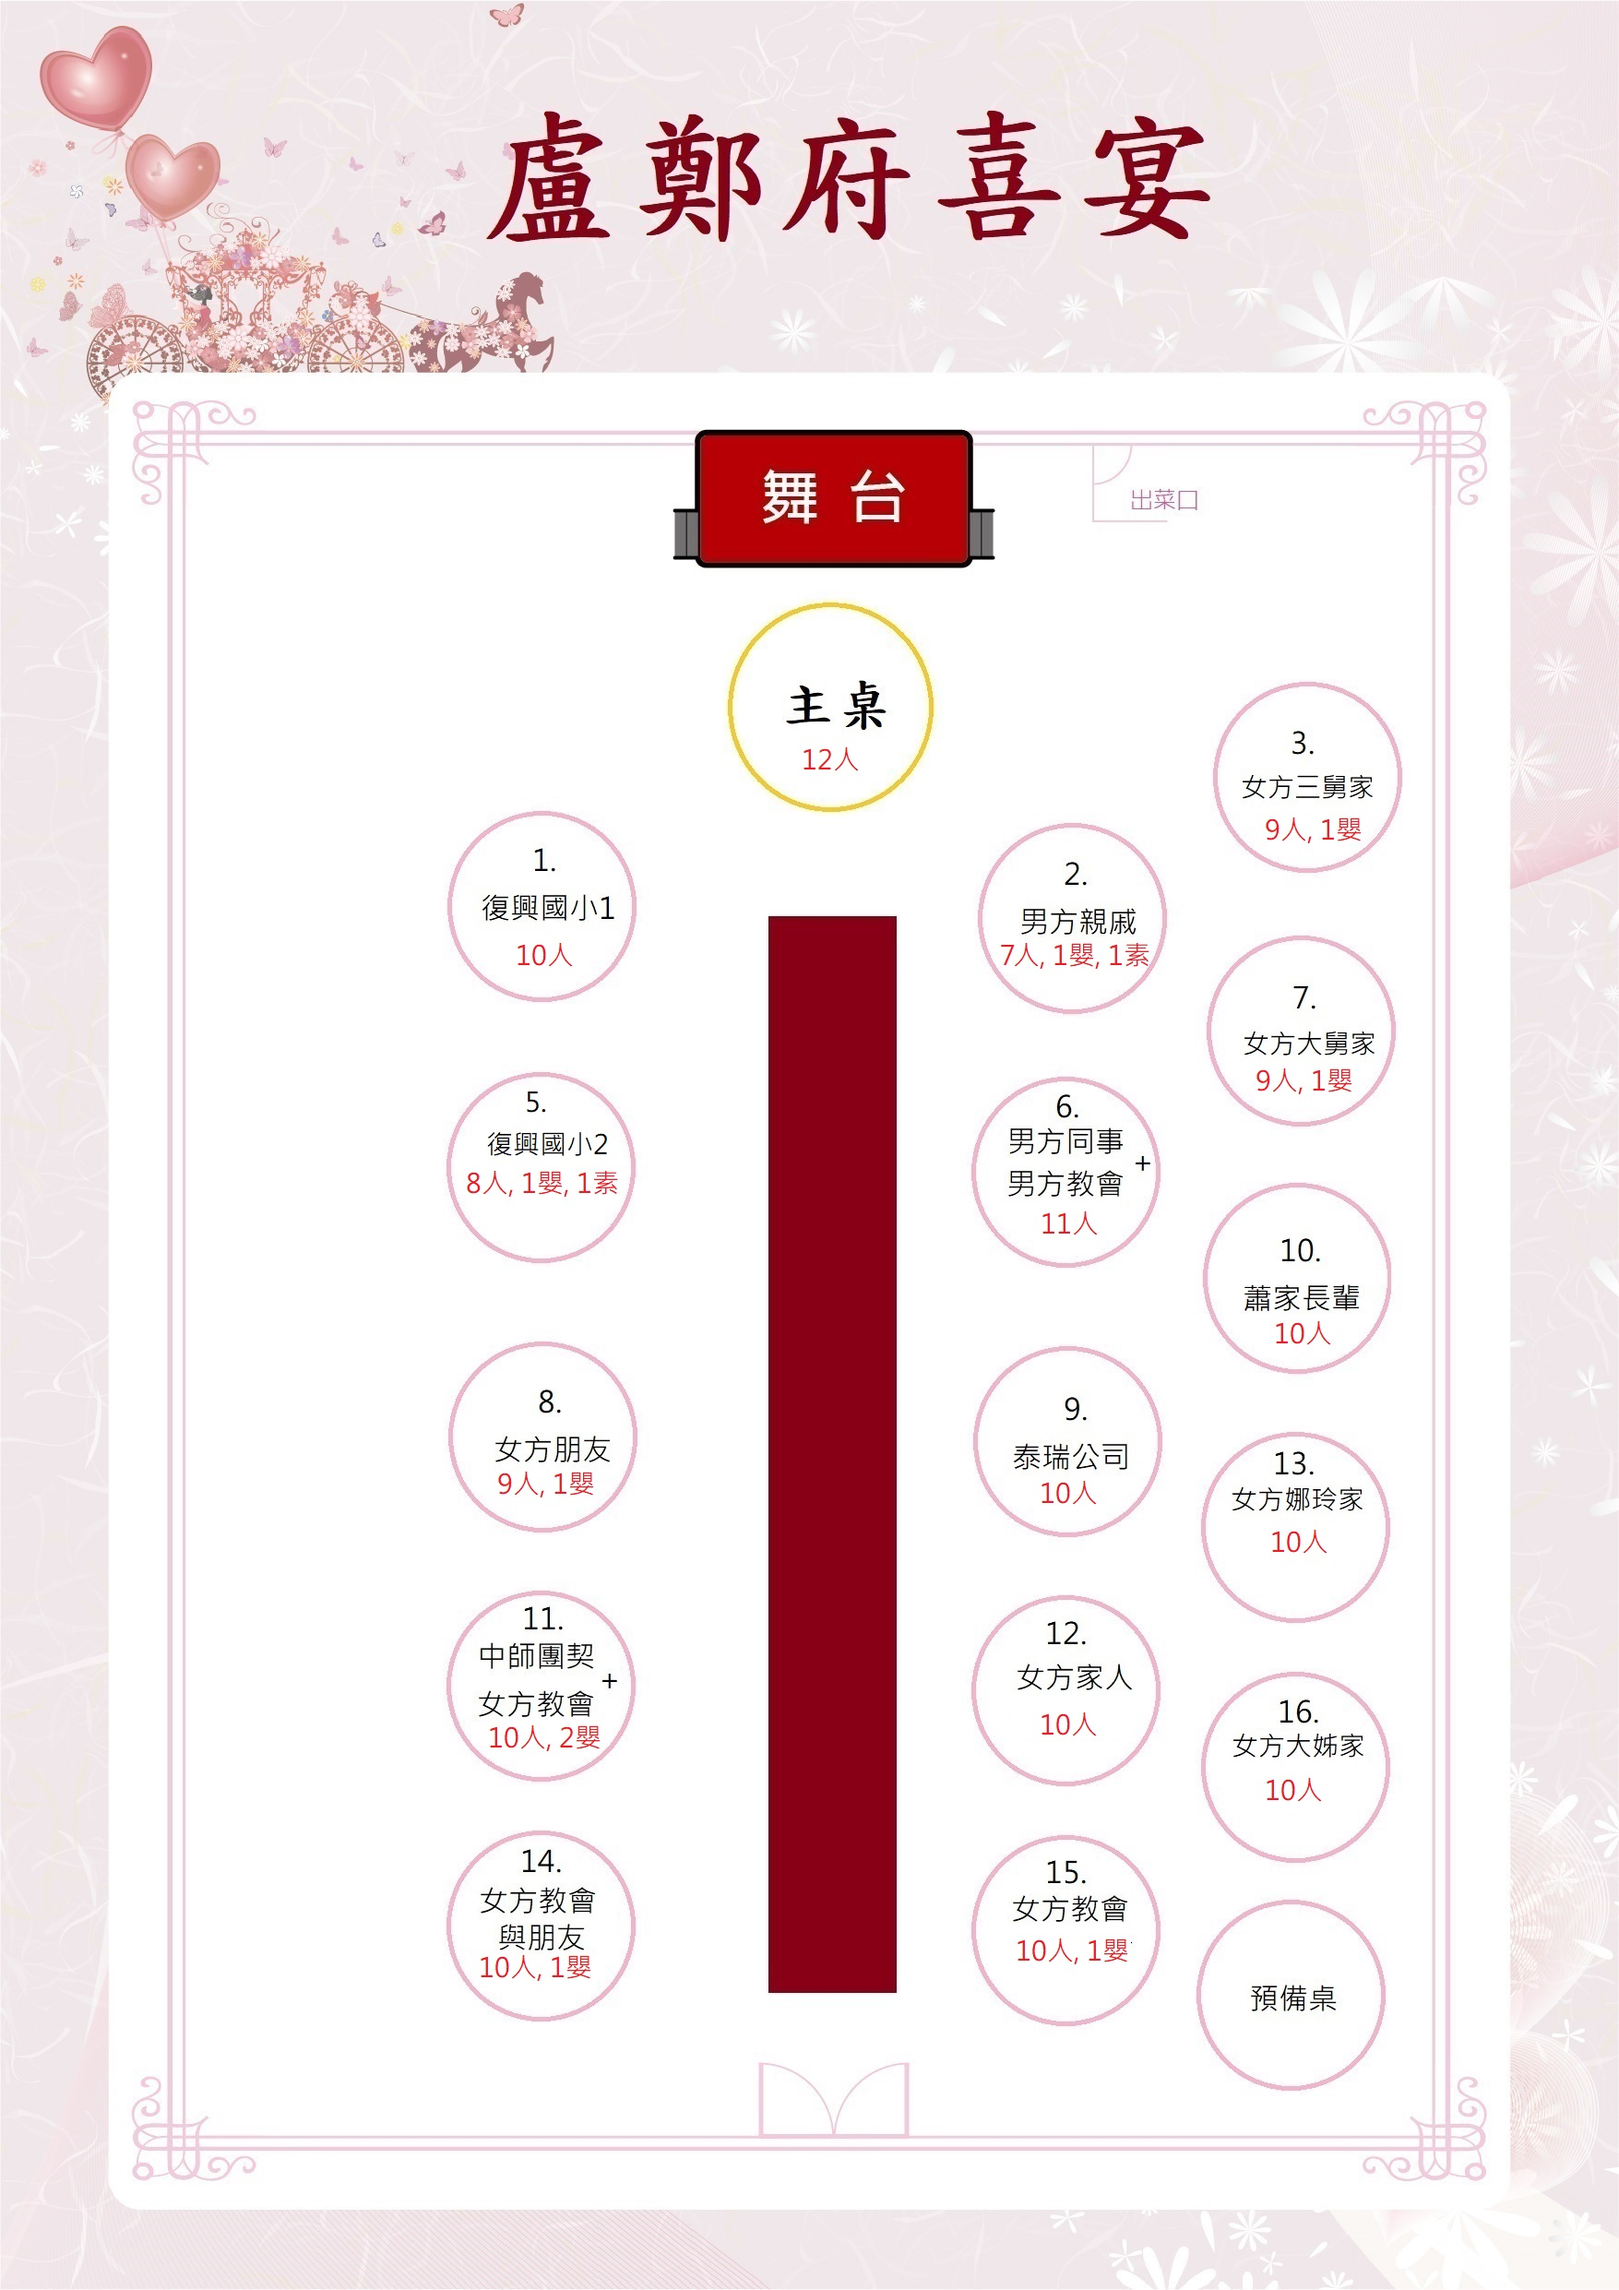
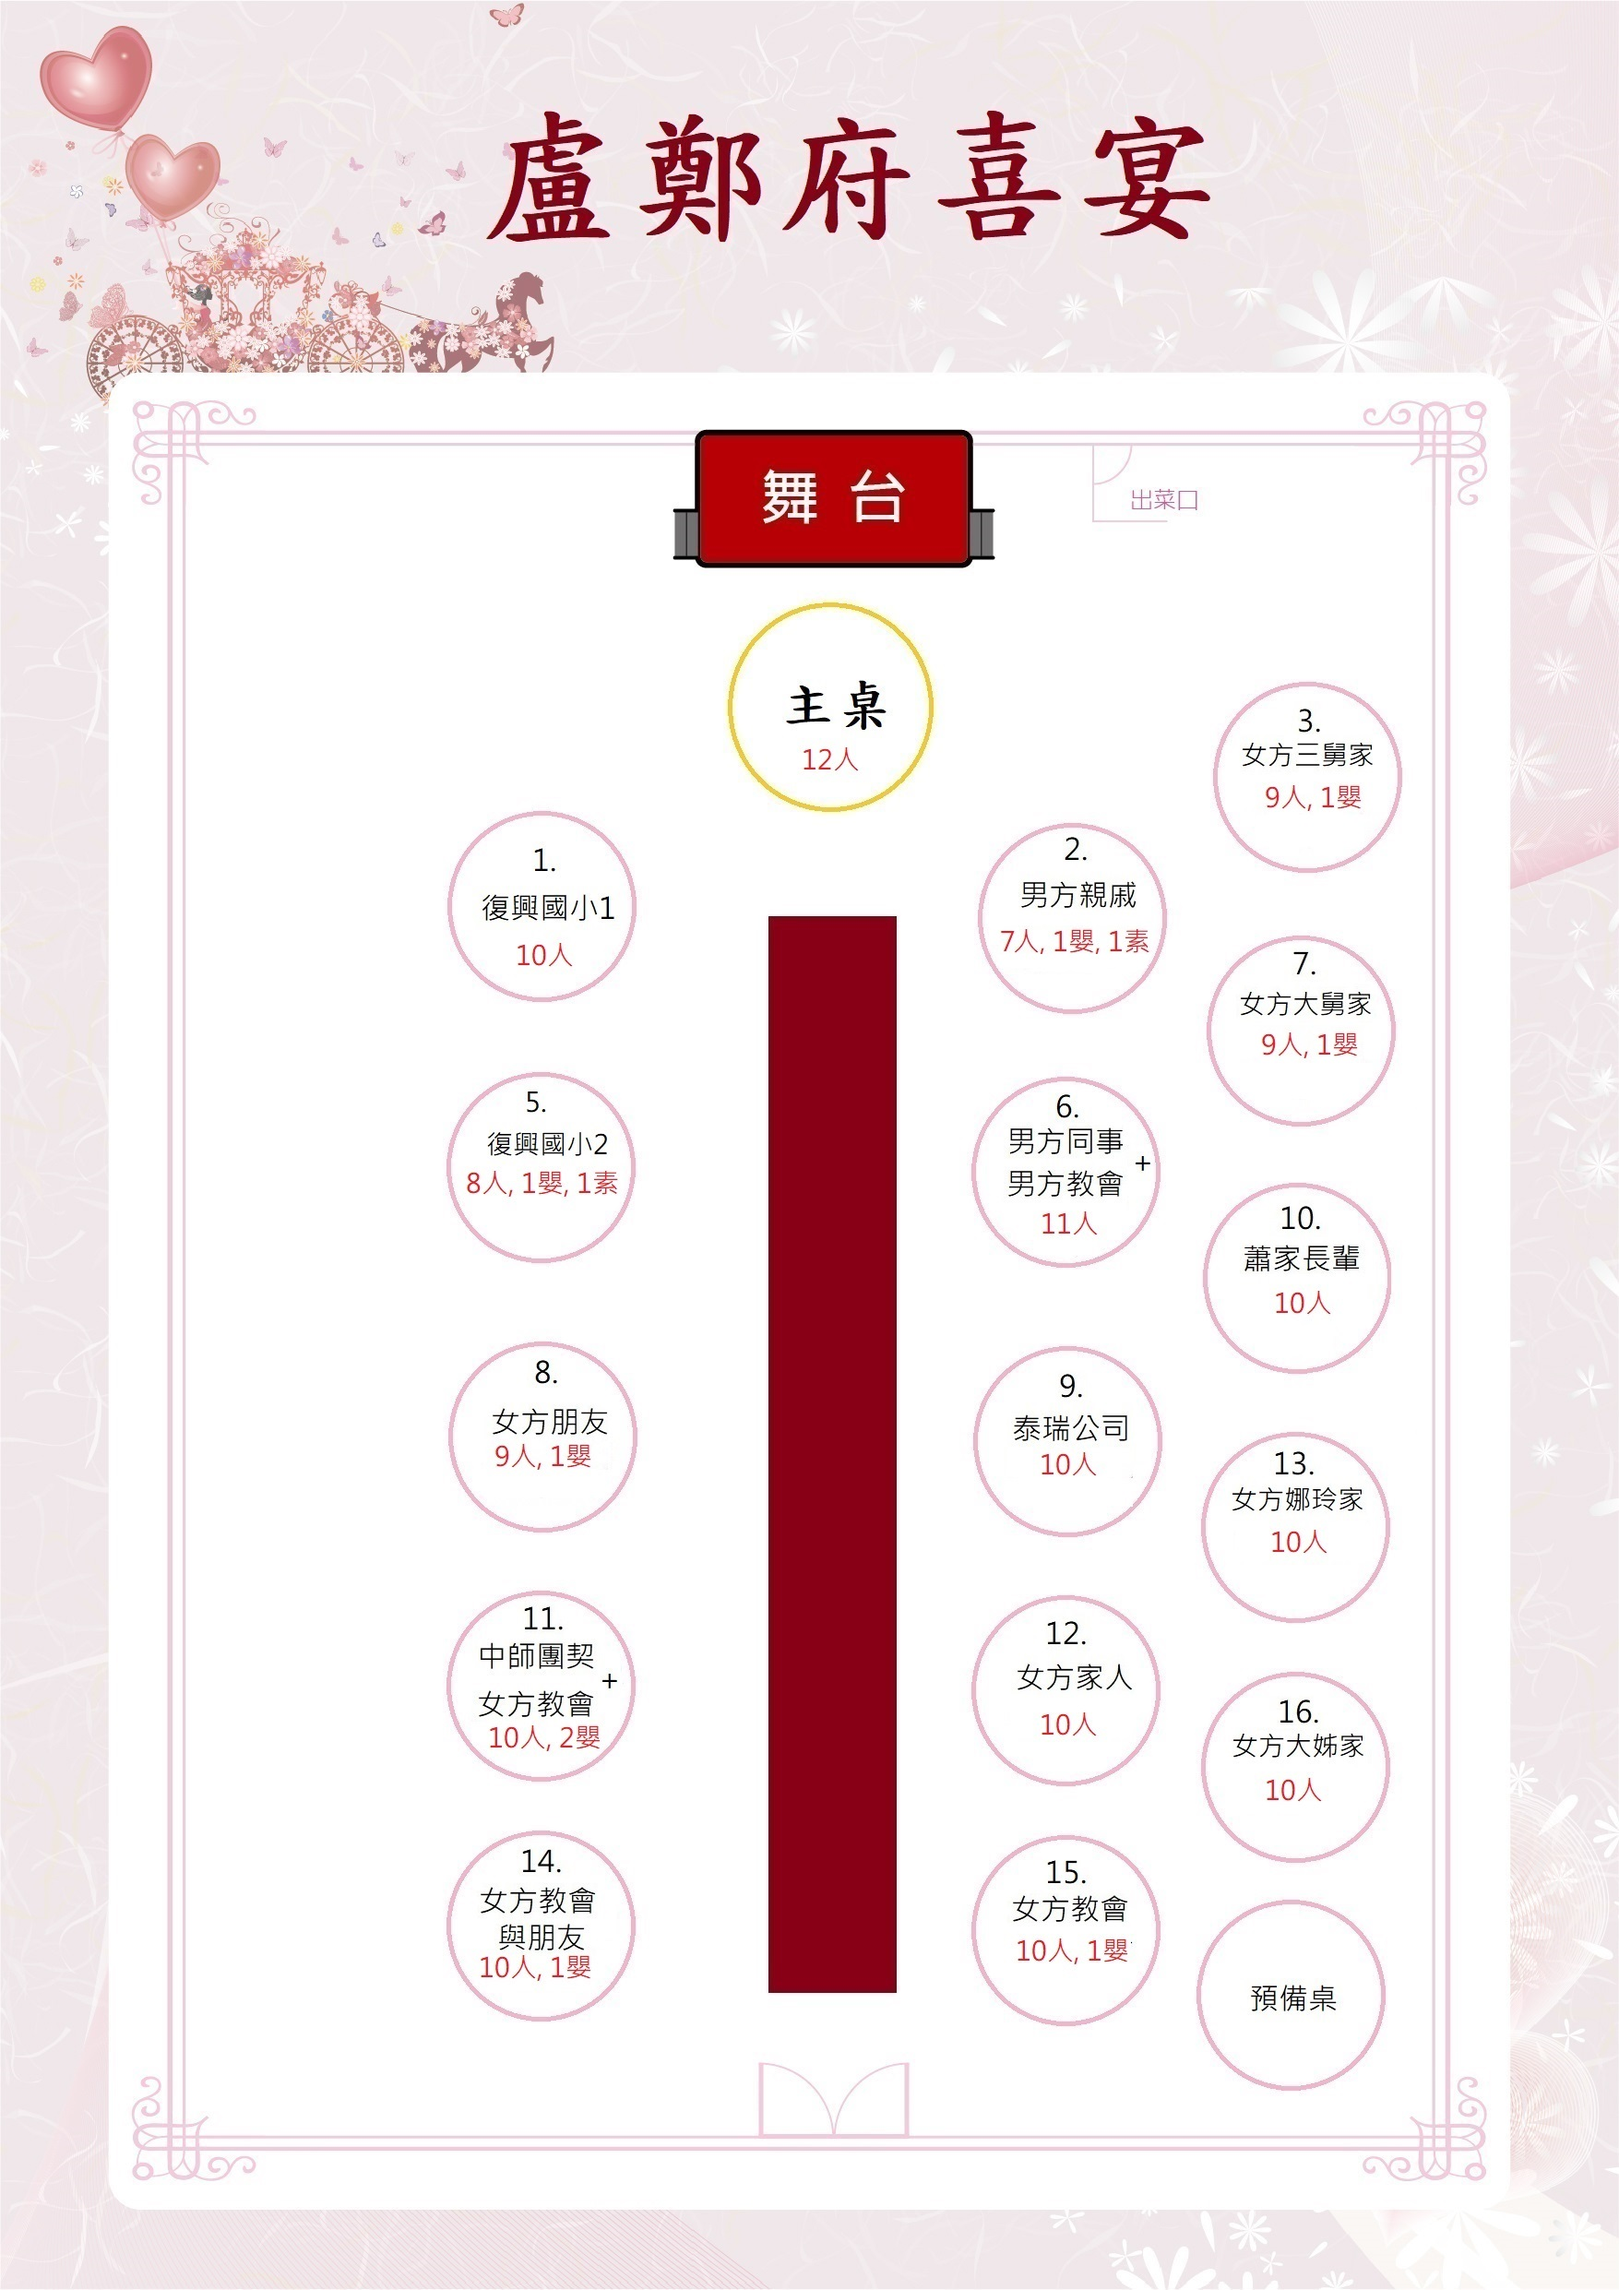
'deploy'

diff --git a/docs/.vuepress/components/seat.vue b/docs/.vuepress/components/seat.vue
@@ -27,6 +27,7 @@
         </b-row>
       </b-col>
     </b-row>
+    <b-img src="https://raw.githubusercontent.com/hmlu36/vuepress/gh-pages/4.24%E7%9B%A7%E9%84%AD%E5%BA%9C%E5%96%9C%E5%AE%B4.jpg" />
   </b-container>
 </template>
 
@@ -51,7 +52,7 @@ export default {
           "蕭家輝",
           "六叔公",
         ],
-        "1.復興國小1<br/>&nbsp;": [
+        "1.復興國小1<br/>10人": [
           "杜雨霖",
           "陳玟君",
           "陳春利",
@@ -63,7 +64,7 @@ export default {
           "曾振升",
           "柯奉成",
         ],
-        "2.男方親戚<br/>&nbsp;": [
+        "2.男方親戚<br/>7人, 1嬰, 1素": [
           "盧昶羽",
           "盧正壽妻",
           "盧文玲",
@@ -74,7 +75,7 @@ export default {
           "蔡鈞宇(嬰)",
           "親家母(素)",
         ],
-        "3.女方三舅家<br/>&nbsp;": [
+        "3.女方三舅家<br/>9人, 1嬰": [
           "順聰1",
           "順聰2",
           "順聰3",
@@ -86,7 +87,7 @@ export default {
           "三舅媽",
           "全恩",
         ],
-        "5.復興國小2<br/>&nbsp;": [
+        "5.復興國小2<br/>8人, 1嬰, 1素": [
           "郭柏陞1",
           "郭柏陞2",
           "張喜凰1",
@@ -98,7 +99,7 @@ export default {
           "林佳誼(素)",
           "林清安",
         ],
-        "6.男方朋友<br/>淡水教會": [
+        "6.男方朋友<br/>男方教會 11人": [
           "謝俊彥",
           "鍾傑安",
           "李昱勳",
@@ -111,7 +112,7 @@ export default {
           "陳冠蓁",
           "楊景翔",
         ],
-        "7.女方大舅家<br/>&nbsp;": [
+        "7.女方大舅家<br/>9人, 1嬰": [
           "雅文1",
           "雅文2",
           "雅文3",
@@ -123,7 +124,7 @@ export default {
           "大舅媽",
           "瑛泓",
         ],
-        "8.女方朋友<br/>&nbsp;": [
+        "8.女方朋友<br/>9人, 1嬰": [
           "王建勛1",
           "王建勛2",
           "王建勛3",
@@ -135,7 +136,7 @@ export default {
           "林佳蓁2",
           "林佳蓁3",
         ],
-        "9.泰瑞公司<br/>&nbsp;": [
+        "9.泰瑞公司<br/>10人": [
           "許正登",
           "魏經理",
           "麗月1",
@@ -147,7 +148,7 @@ export default {
           "小慧1",
           "小慧2",
         ],
-        "10.蕭家長輩<br/>&nbsp;": [
+        "10.蕭家長輩<br/>10人": [
           "三姑婆1",
           "三姑婆2",
           "五叔公1",
@@ -159,7 +160,7 @@ export default {
           "二舅媽2",
           "葉舫",
         ],
-        "11.中師團契與<br/>女方教會&nbsp;": [
+        "11.中師團契與<br/>女方教會 10人, 2嬰": [
           "丁奕瑄",
           "謝芳瑾",
           "何俞萱1",
@@ -173,7 +174,7 @@ export default {
           "郭進福3(嬰)",
           "郭進福4(嬰)",
         ],
-        "12.女方家人<br/>&nbsp;": [
+        "12.女方家人<br/>10人": [
           "鄭仰恩1",
           "鄭仰恩2",
           "鄭仰恩3",
@@ -185,7 +186,7 @@ export default {
           "秀惠",
           "溪松",
         ],
-        "13.女方娜玲家<br/>&nbsp;": [
+        "13.女方娜玲家<br/>10人": [
           "娜玲1",
           "娜玲2",
           "信溢1",
@@ -210,7 +211,7 @@ export default {
           "王淳韻4",
           "王淳韻5(嬰)",
         ],
-        "15.女方教會<br/>&nbsp;": [
+        "15.女方教會<br/>10人, 1嬰": [
           "孫千蕙1",
           "孫千蕙2",
           "宋昀臻",
@@ -223,7 +224,7 @@ export default {
           "許君芳1",
           "許君芳2",
         ],
-        "16.女方大姊家<br/>&nbsp;": [
+        "16.女方大姊家<br/>10人": [
           "碧霞",
           "碧香1",
           "碧香2",
